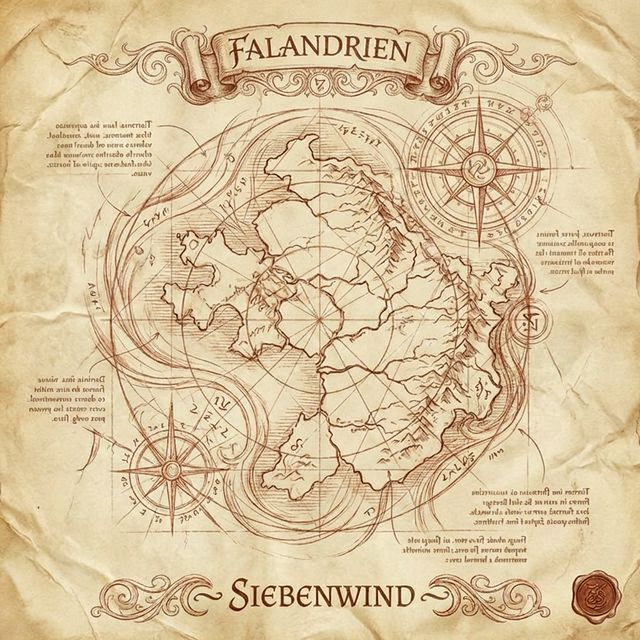
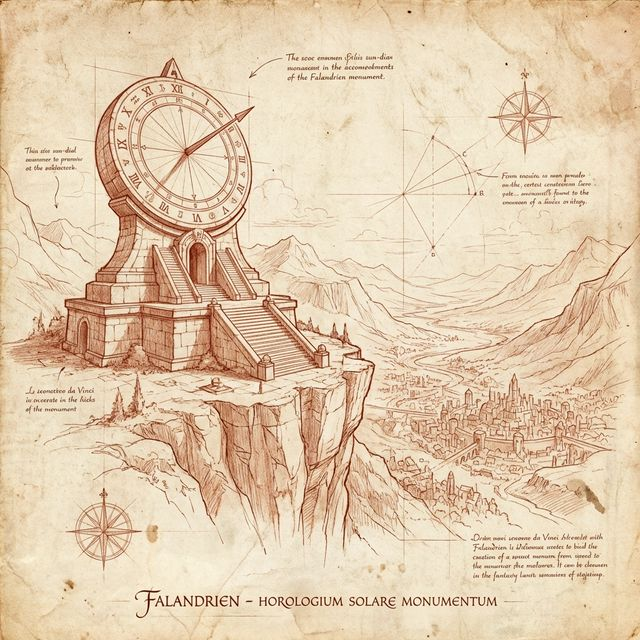
style: final pivot to Leonardo Sanguine Sketchbook aesthetic

diff --git a/docs/assets/custom.css b/docs/assets/custom.css
@@ -1,128 +1,93 @@
-/* Siebenwind Wiki 2.1 - Monumental Obsidian & Gold */
+/* Siebenwind Wiki 2.1 - Leonardo Sanguine Sketchbook */
 
 :root {
-    --md-primary-fg-color: #0f172a;
-    /* Deep Obsidian */
-    --md-primary-fg-color--light: #1e293b;
-    --md-accent-fg-color: #fbbf24;
-    /* Radiant Gold */
-    --md-default-fg-color: #f1f5f9;
-    --md-default-bg-color: #111827;
-    /* Dark Obsidian Background */
-    --md-code-bg-color: #1e293b;
+    --md-primary-fg-color: #8b322c;
+    /* Sanguine Red */
+    --md-primary-fg-color--light: #a3433a;
+    --md-accent-fg-color: #4a3728;
+    /* Sepia Ink */
+    --md-default-fg-color: #4a3728;
+    --md-default-bg-color: #f8f1e7;
+    /* Elegant Paper White */
 }
 
 /* Typography Overrides */
-@import url('https://fonts.googleapis.com/css2?family=Cinzel:wght@400;700&family=Playfair+Display:ital,wght@0,400;0,700;1,400&family=Inter:wght@400;500;700&display=swap');
+@import url('https://fonts.googleapis.com/css2?family=Cinzel:wght@400;700&family=Playfair+Display:ital,wght@1,400;1,700&family=Inter:wght@400;500&display=swap');
 
 h1,
 h2,
-h3,
-.md-nav__link--active {
+h3 {
     font-family: 'Cinzel', serif !important;
-    letter-spacing: 0.08em;
-    color: #fbbf24 !important;
-    /* Radiant Gold */
-    text-transform: uppercase;
+    color: #8b322c !important;
+    font-weight: 400;
+    letter-spacing: 0.12em;
+    border-bottom: 1px solid rgba(139, 50, 44, 0.2);
+    padding-bottom: 0.5rem;
 }
 
 body,
 .md-typeset {
     font-family: 'Inter', sans-serif;
     line-height: 1.8;
-    color: #e2e8f0;
+    color: #4a3728;
 }
 
-/* Monumental Page Header */
-.md-content__inner h1 {
-    border-bottom: 3px solid #fbbf24;
-    padding-bottom: 1rem;
-    margin-top: 3rem;
-    text-shadow: 0 0 20px rgba(251, 191, 36, 0.3);
+/* Sketchbook Content Card */
+.md-content {
+    background: white !important;
+    border: 1px solid rgba(74, 55, 40, 0.1);
+    box-shadow: 0 4px 25px rgba(0, 0, 0, 0.03);
+    border-radius: 4px;
+    padding: 3rem !important;
+}
+
+/* Navigation - Refined & Literary */
+.md-nav__link {
+    font-family: 'Playfair Display', serif;
+    font-style: italic;
+    font-size: 1.1rem;
+}
+
+.md-nav__link--active {
+    color: #8b322c !important;
     font-weight: 700;
 }
 
-/* Glassmorphism for content cards */
-.md-content {
-    background: rgba(30, 41, 59, 0.7) !important;
-    backdrop-filter: blur(12px);
-    -webkit-backdrop-filter: blur(12px);
-    border-radius: 12px;
-    border: 1px solid rgba(251, 191, 36, 0.1);
-    box-shadow: 0 20px 50px rgba(0, 0, 0, 0.3);
-    margin-top: 30px;
-    padding: 40px;
+/* Banner Styling */
+.wiki-banner {
+    width: 100%;
+    border: 1px solid rgba(139, 50, 44, 0.3);
+    box-shadow: 2px 2px 10px rgba(0, 0, 0, 0.05);
+    margin-bottom: 2rem;
 }
 
-/* Table Styling - Monumental & Clear */
+/* Tables - Precise & Clean */
 .md-typeset table:not([class]) {
-    border-collapse: separate;
-    border-spacing: 0;
-    border: 1px solid rgba(251, 191, 36, 0.2);
-    border-radius: 12px;
-    overflow: hidden;
-    background-color: rgba(15, 23, 42, 0.8) !important;
-    width: 100%;
+    border: 1px solid #4a3728;
+    background-color: #fff !important;
 }
 
 .md-typeset table:not([class]) th {
-    background-color: #fbbf24;
-    color: #0f172a;
+    background-color: #f8f1e7;
+    color: #8b322c;
+    font-family: 'Cinzel', serif;
+    text-transform: uppercase;
+}
+
+/* Admonitions */
+.md-typeset .admonition {
+    background-color: #fcf9f5;
+    border-left-color: #8b322c;
+}
+
+/* Floating Elements (Subtle 'Leonardo' feel) */
+.md-header {
+    background-color: #f8f1e7 !important;
+    border-bottom: 2px solid #8b322c;
+    color: #8b322c !important;
+}
+
+.md-header__topic {
     font-family: 'Cinzel', serif;
     font-weight: 700;
-    letter-spacing: 0.1em;
-    padding: 12px;
-}
-
-.md-typeset table:not([class]) td {
-    border-top: 1px solid rgba(251, 191, 36, 0.05);
-    padding: 12px;
-}
-
-/* Animated Atmospherics (The 'Passing Cloud') */
-.md-header {
-    background: #0f172a !important;
-    box-shadow: 0 2px 20px rgba(0, 0, 0, 0.5);
-}
-
-.md-header::before {
-    content: "";
-    position: absolute;
-    top: 0;
-    left: 0;
-    right: 0;
-    bottom: 0;
-    background: linear-gradient(90deg, transparent, rgba(251, 191, 36, 0.03), transparent);
-    animation: cloud-pass 15s infinite linear;
-    pointer-events: none;
-}
-
-@keyframes cloud-pass {
-    0% {
-        transform: translateX(-100%);
-    }
-
-    100% {
-        transform: translateX(100%);
-    }
-}
-
-/* Links */
-.md-typeset a {
-    color: #fbbf24;
-    font-weight: 500;
-    transition: all 0.3s cubic-bezier(0.4, 0, 0.2, 1);
-}
-
-.md-typeset a:hover {
-    text-shadow: 0 0 10px rgba(251, 191, 36, 0.5);
-    color: #fff;
-}
-
-/* Admonitions (Info boxes) */
-.md-typeset .admonition {
-    border-left-width: 0.4rem;
-    border-radius: 8px;
-    background-color: rgba(251, 191, 36, 0.05);
-    border-color: #fbbf24;
 }

diff --git a/docs/index.md b/docs/index.md
@@ -1,8 +1,10 @@
-# <p align="center">⚔ Siebenwind Lore Engine 2.0</p>
+---
+layout: wiki_page
+title: Siebenwind Wiki
+category: Index
+---
 
-<p align="center">
-  <img src="assets/banner.png" alt="Siebenwind Lore Engine Banner" width="100%" style="border-radius: 10px; box-shadow: 0 4px 20px rgba(0,0,0,0.5);">
-</p>
+![Siebenwind Lore Engine Banner](assets/banner.png){ .wiki-banner }
 
 <p align="center">
   <a href="https://github.com/Siebenwind/7w_wiki" target="_blank">

diff --git a/Siebenwind_Wiki/10_Archiv/Wiki_Statistiken.md b/Siebenwind_Wiki/10_Archiv/Wiki_Statistiken.md
@@ -6,14 +6,14 @@ category: Index
 
 # 📊 Wiki Status
 
-**Stand:** 2026-02-14 23:36
+**Stand:** 2026-02-14 23:52
 
 ---
 
 | Metrik | Wert |
 | :--- | :--- |
 | **Artikel** | 1047 |
-| **Worte** | 169,325 |
+| **Worte** | 169,323 |
 | **Personen** | 563 |
 
 ---
